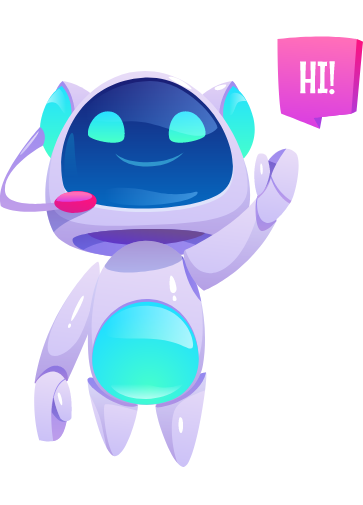
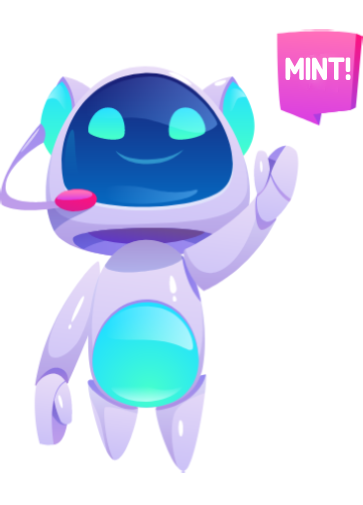
change bots card images

diff --git a/src/Pricing.js b/src/Pricing.js
@@ -142,13 +142,13 @@ export default function Pricing(){
                     <img
                       alt="..."
                       className="img-center img-fluid"
-                      src={require("assets/robots/robot-search.png")}
+                      src={require("assets/robots/robot-send.png")}
                     />
                   </CardHeader>
                   <CardBody>
                     <Row>
                       <Col className="text-center" md="12">
-                        <h4 className="text-uppercase">Safety collobs</h4>
+                        <h4 className="text-uppercase">Safety collabs</h4>
                         <hr className="line-primary" />
                       </Col>
                     </Row>
@@ -179,7 +179,7 @@ export default function Pricing(){
                     <img
                       alt="..."
                       className="img-center img-fluid"
-                      src={require("assets/robots/robot-money.png")}
+                      src={require("assets/robots/lock-robot.png")}
                     />
                   </CardHeader>
                   <CardBody>
@@ -211,7 +211,7 @@ export default function Pricing(){
                     <img
                       alt="..."
                       className="img-center img-fluid"
-                      src={require("assets/robots/robot-message.png")}
+                      src={require("assets/robots/robot-hi.png")}
                     />
                   </CardHeader>
                   <CardBody>
@@ -245,7 +245,7 @@ export default function Pricing(){
 					<img
 					alt="..."
 					className="img-center img-fluid"
-					src={require("assets/robots/robot-message.png")}
+					src={require("assets/robots/robot-earn.png")}
 					/>
 					</CardHeader>
 					<CardBody>

diff --git a/src/Features.js b/src/Features.js
@@ -36,7 +36,7 @@ export default function features()
                   <div data-aos="fade-left" data-aos-delay="" data-aos-duration="900" className="pl-md-5">
                     <h1 className="bots" >PRE MINT BOTS</h1>
                     <p>Safety Labs provides a set of bots that help keep you server safe and CM easy! </p>
-					<h5><strong>Safety collobs&nbsp;:&nbsp;&nbsp;</strong>is a bot that make assigning roles easy and fast, the bot can do bulk assign of a specific role to a single or multiple members</h5>
+					<h5><strong>Safety collabs&nbsp;:&nbsp;&nbsp;</strong>is a bot that make assigning roles easy and fast, the bot can do bulk assign of a specific role to a single or multiple members</h5>
 					<h5><strong>Purge inactive whitelist members&nbsp;:&nbsp;&nbsp;</strong>this bot can send message to your members and warn them about being active to keep a specified role also also the bot allows you to keep track of your active members on a dashboard</h5>
                     <br />
 					<h5><strong>Wallets collector&nbsp;:&nbsp;&nbsp;</strong>you can collect wallet of your whitelisted members easy and quick and accurate inside your server!</h5>
